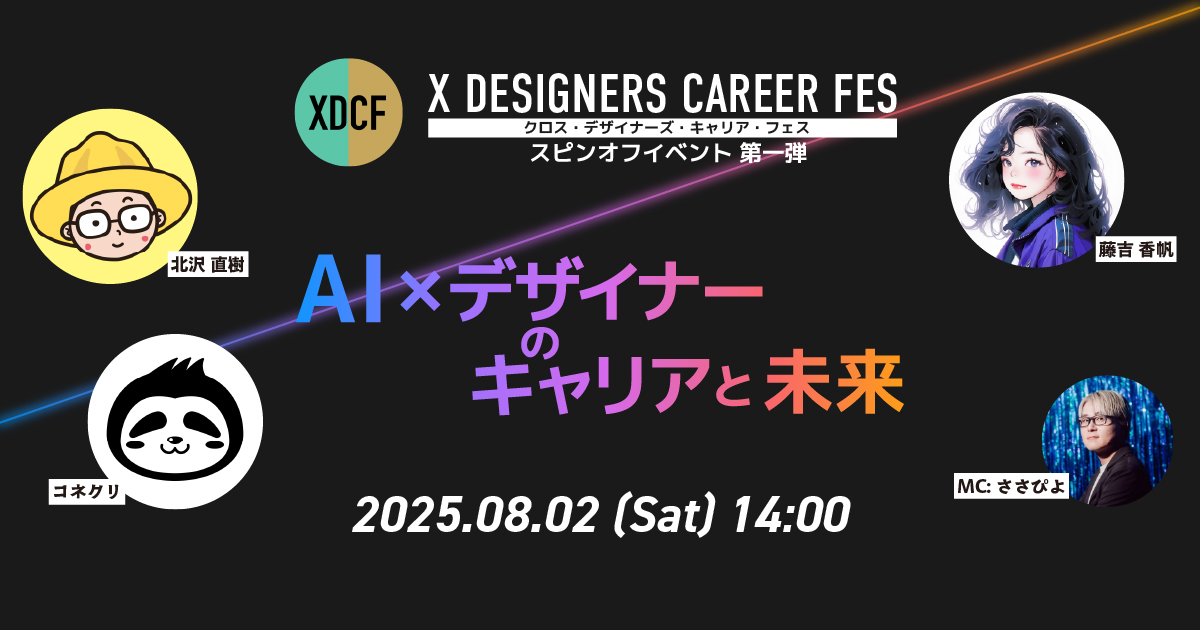
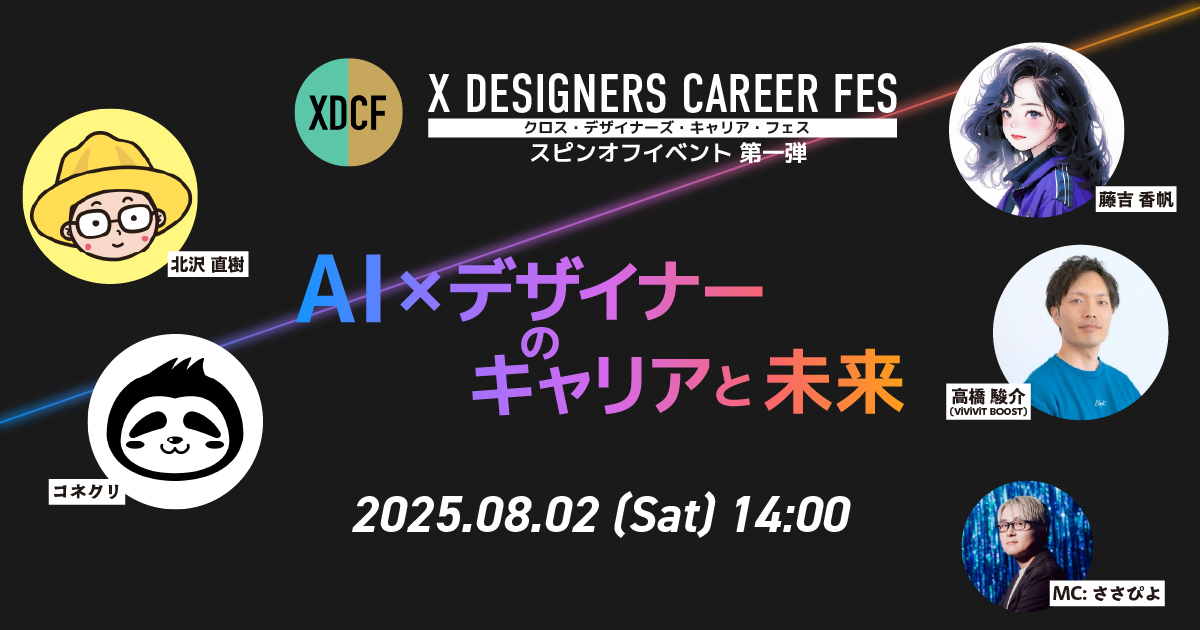
update: spin-off/01 casts

Changed region(s): [[0.7708, 0.0603, 0.9867, 0.9651]]

diff --git a/app/(spin-off)/spin-off/01/components/casts.js b/app/(spin-off)/spin-off/01/components/casts.js
@@ -135,6 +135,21 @@ const Casts = () => {
 							</Link>
 						</p>
 					</Cast>
+					<Cast
+						title="ViViViT BOOST Career Advisor"
+						name="高橋 駿介"
+						img="/spin-off/01/takahashi.jpg"
+						x="512"
+						y="512"
+					>
+						<p>Web/IT/ゲーム業界のクリエイター専門の人材エージェントです。</p>
+						<p>
+							人材業界一筋のキャリア、マイナビクリエイターでトップセールス・マネージャーを経験後、現在はViViViT
+							BOOSTにてプレイングマネージャーをしています。
+							<br />
+							採用のことなら、企業の課題も、クリエイターのキャリアも、お気軽にご相談ください。
+						</p>
+					</Cast>
 				</div>
 				<div id="mc" className="">
 					<CastTitle title="MC" />
